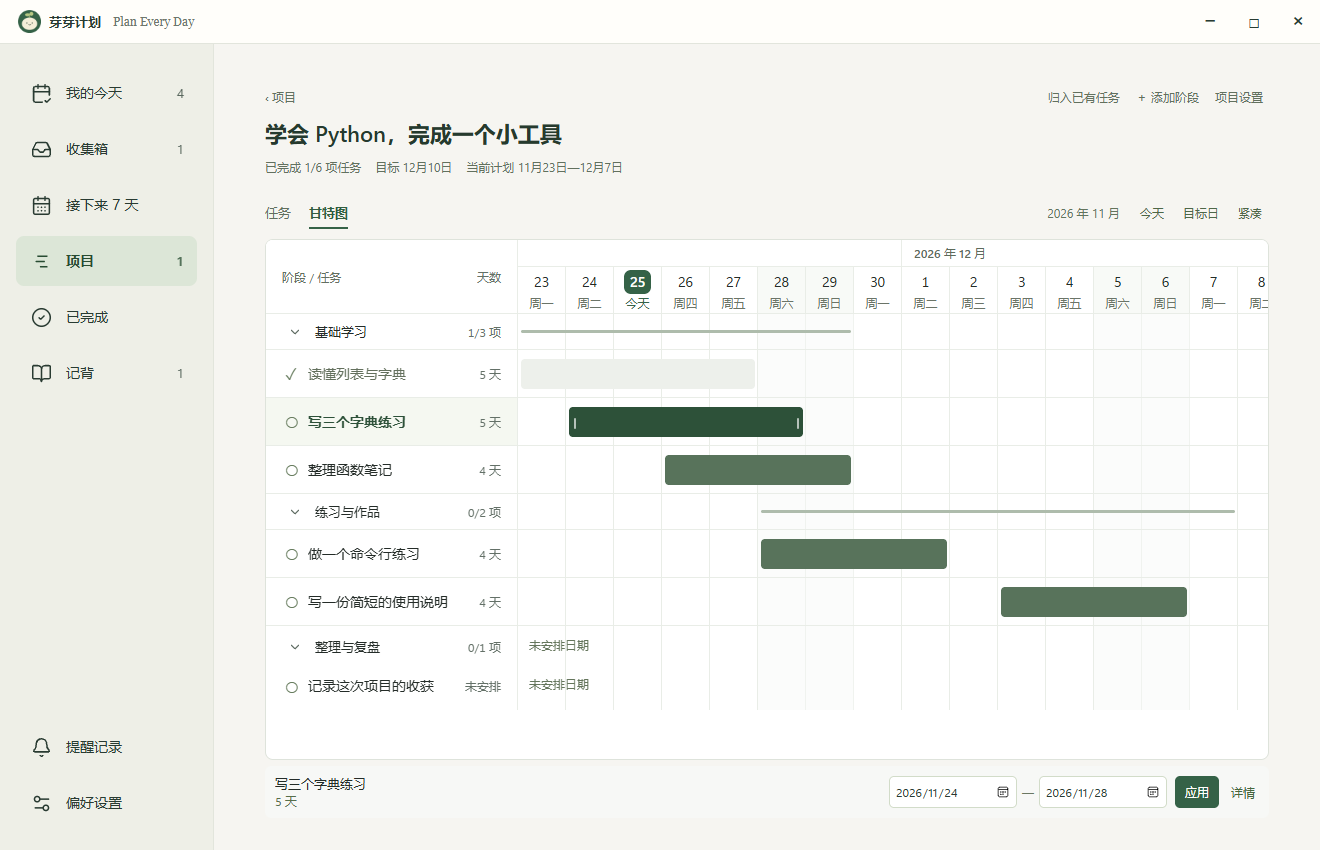
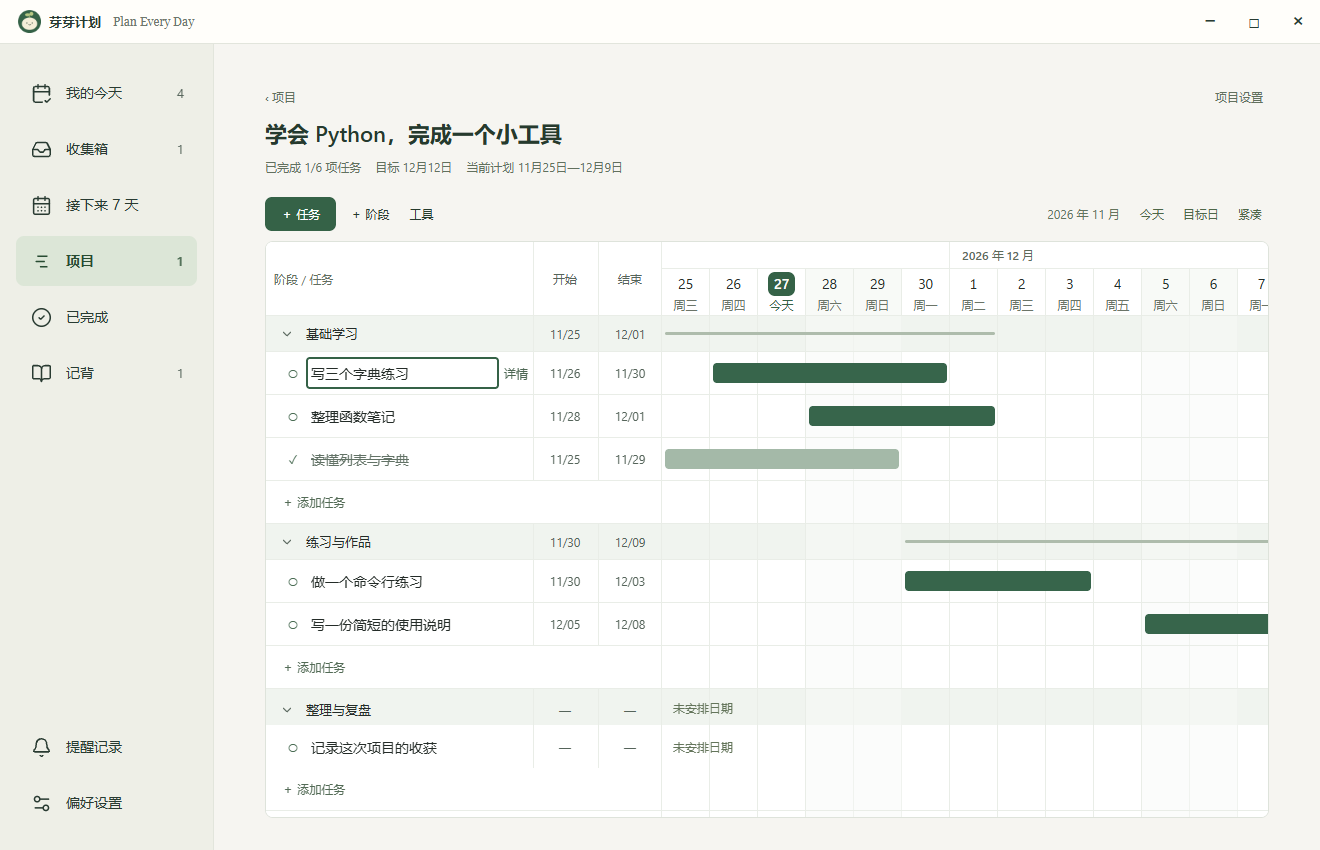
feat: merge project tasks and Gantt into an editable schedule

diff --git a/src/ui/projects.js b/src/ui/projects.js
@@ -42,17 +42,76 @@
   const group=(name,title,items)=>items.length?`<section class="project-list-group"><button class="project-group-toggle" data-project-group="${name}" aria-expanded="${name==='active'||model.groups[name]||!!q}"><span aria-hidden="true">${name==='active'||model.groups[name]||q?'⌄':'›'}</span>${title}<small>${items.length}</small></button>${name==='active'||model.groups[name]||q?items.map(row).join(''):''}</section>`:'';
   return `<div class="project-list-toolbar"><label class="project-search"><span class="sr-only">搜索项目</span><input id="project-search" type="search" placeholder="搜索项目" value="${esc(model.query)}"></label><button class="primary-button" data-project-new>＋ 新建项目</button></div><div class="project-scroll" tabindex="-1">${group('active','进行中',list.filter(p=>!p.archivedAt&&p.status!=='completed'))}${group('completed','已完成',list.filter(p=>!p.archivedAt&&p.status==='completed'))}${group('archived','已归档',list.filter(p=>p.archivedAt))}${!list.length?`<div class="project-empty"><h2>${q?'没有找到匹配的项目':'还没有项目'}</h2><p>${q?'试试其他关键词，或查看全部项目。':'新建项目后，可以直接记录任务，再分阶段安排日期。'}</p><button class="secondary-button" ${q?'data-project-clear-search':'data-project-new'}>${q?'清除搜索':'新建项目'}</button></div>`:''}</div>`;
  }
- function taskGroup(item,list){
-  const s=session(),id=item?.id||'',key=id||'unassigned',all=list.filter(t=>(t.stageId||'')===id),visible=shownTasks(all),collapsed=!!s.collapsed?.[key]&&!filtered();
-  if(filtered()&&!visible.length)return '';
-  return `<section class="project-stage" data-project-stage="${esc(id)}"><div class="project-stage-head"><button class="project-stage-toggle" data-stage-toggle="${esc(key)}" aria-expanded="${!collapsed}"><span aria-hidden="true">${collapsed?'›':'⌄'}</span><span class="project-stage-name">${esc(item?.title||'未分阶段')}</span><small>${all.length&&all.every(t=>t.status==='done')?'阶段任务已完成':progress(all)}</small></button>${item?`<button class="project-stage-date" data-stage-schedule="${esc(id)}" aria-label="调整 ${esc(item.title)} 的日期">${dateRange(item.startDate,item.endDate)}</button><button class="project-stage-edit" data-stage-edit="${esc(id)}" aria-label="编辑阶段 ${esc(item.title)}" title="编辑阶段">⋯</button>`:''}</div>${!collapsed?`${item?.outcome?`<p class="project-stage-outcome">${esc(item.outcome)}</p>`:''}<div class="project-stage-tasks">${visible.length?visible.map(t=>`<div class="project-task-wrap ${s.multi?'is-selecting':''}">${s.multi?`<label class="project-select"><input type="checkbox" data-project-select="${esc(t.id)}" aria-label="选择 ${esc(t.title)}" ${model.selection.includes(t.id)?'checked':''}></label>`:''}${context.taskRow(t)}${outsideStage(t,item)?`<p class="project-outside">安排日期在阶段范围外 <button data-detail="${esc(t.id)}">调整任务</button><button data-stage-schedule="${esc(id)}">调整阶段</button></p>`:''}</div>`).join(''):`<p class="project-group-empty">${filtered()?'此阶段没有匹配的任务':'尚无任务'}</p>`}</div><button class="project-inline-add" data-stage-add-task="${esc(id)}">＋ 添加${item?'阶段':'项目'}任务</button>`:''}</section>`;
+ function startEntry(kind,stageId=''){
+  const s=session();s.quickByStage||={};
+  if(s.entry==='task')s.quickByStage[s.stageId||'']=s.quick;
+  s.entry=kind;s.stageId=stageId||'';
+  if(kind==='task')s.quick=s.quickByStage[s.stageId]||'';
+  if(s.gantt?.collapsed)s.gantt.collapsed=s.gantt.collapsed.filter(id=>id!==s.stageId);
+  draw();const field=context.container.querySelector('.sheet-entry');field?.scrollIntoView({block:'nearest',inline:'nearest'});field?.focus({preventScroll:true});
  }
+ function sheetControls(){
+  const s=session(), projectId=model.id;
+  s.titles||={};
+  if(s.quick&&!s.entry)s.entry='task';
+  function operation(fn){return act(fn);}
+  function name(item,kind){
+   const field=document.createElement('input');field.type='text';field.id='sheet-name-'+item.id;
+   field.className='sheet-name '+(kind==='task'?'gantt-task-name':'gantt-stage-name');field.maxLength=200;
+   field.setAttribute('aria-label',(kind==='stage'?'阶段名称':'任务名称')+' · '+item.title);
+   field.value=s.titles[item.id]?.value??item.title;field.title=item.title;
+   field.oninput=()=>{s.titles[item.id]={base:s.titles[item.id]?.base??item.title,value:field.value};persist();};
+   const save=()=>{const draft=s.titles[item.id];if(!draft||busy)return;
+    void operation(async()=>{
+     const title=draft.value.trim();if(!title)throw Error('名称不能为空');
+     if(title!==item.title){
+      if(draft.base!==item.title)throw Error('名称已在其他位置更改，请按 Esc 恢复后再编辑。');
+      await context.api(kind==='stage'?'updateStage':'update',{id:item.id,patch:{title}});
+     }
+     if(s.titles[item.id]===draft)delete s.titles[item.id];await refresh();
+    });
+   };
+   field.onkeydown=e=>{if(e.isComposing||e.keyCode===229)return;
+    if(e.key==='Enter'){e.preventDefault();save();}
+    if(e.key==='Escape'){e.stopPropagation();delete s.titles[item.id];field.value=item.title;persist();field.blur();}
+   };
+   field.onchange=()=>{if(field.isConnected&&!drawing)save();};
+   return field;
+  }
+  function entry(kind,stageId){
+   const active=(s.entry||'')===kind&&(kind==='stage'||s.stageId===(stageId||''));
+   if(!active){
+    const b=document.createElement('button');b.className='sheet-add';b.dataset.sheetAdd=stageId||kind;b.textContent=kind==='stage'?'＋ 添加阶段':'＋ 添加任务';b.onclick=()=>startEntry(kind,stageId);return b;
+   }
+   const field=document.createElement('input');field.className='sheet-entry';field.maxLength=200;
+   field.id=kind==='stage'?'sheet-new-stage':'project-task-title';
+   field.placeholder=kind==='stage'?'输入阶段名称':'输入任务名称';field.setAttribute('aria-label',field.placeholder);
+   field.value=kind==='stage'?(s.phaseTitle||''):(s.quick||'');
+   field.oninput=()=>{if(kind==='stage')s.phaseTitle=field.value;else s.quick=field.value;persist();};
+   field.onkeydown=e=>{
+    if(e.isComposing||e.keyCode===229)return;
+    if(e.key==='Escape'){e.stopPropagation();s.entry=null;if(kind==='stage')s.phaseTitle='';else s.quick='';draw();return;}
+    if(e.key!=='Enter')return;e.preventDefault();
+    if(kind==='task'){void operation(()=>addTask());return;}
+    void operation(async()=>{const title=field.value.trim();if(!title)throw Error('请填写阶段名称');
+     const day=today(),created=await context.api('addStage',{projectId,title,startDate:day,endDate:day});
+     s.phaseTitle='';s.entry='task';s.quick='';s.stageId=created.id||created;await refresh();
+     if(model.id===projectId)focus('project-task-title');
+    });
+   };return field;
+  }
+  return {name,entry,multi:s.multi,selection:model.selection,
+   needUngrouped:!s.stageId&&s.entry==='task',stageDetails:id=>openEditor('stage',id),
+   selectGroup:id=>{if(!s.entry){s.stageId=id||'';persist();}}};
+ }
+ let drawing=false;
  function renderProject(p){
   const list=projectTasks(),phases=projectStages(),s=session(),bounds=range(list,phases),canComplete=list.length>0&&list.every(t=>t.status==='done');
-  const projectActions='<button data-project-assign>归入已有任务</button><button data-stage-new>＋ 添加阶段</button>';
+  const showTools=s.tools||filtered()||s.multi;
   model.selection=model.selection.filter(id=>list.some(t=>t.id===id));
   if(s.stageId&&!phases.some(x=>x.id===s.stageId))s.stageId='';
-  return `<header class="project-header"><div class="project-breadcrumb"><button data-project-back>‹ 项目</button><span class="project-header-actions">${s.tab==='gantt'?projectActions:''}<button data-project-edit="${esc(p.id)}">项目设置</button></span></div><h2>${esc(p.title)}</h2><div class="project-summary"><span>${progress(list)}</span>${p.status==='completed'?'<span class="project-status">项目已完成</span>':''}${p.archivedAt?'<span class="project-status">已归档</span>':''}${p.targetDate?`<span>目标 ${dateText(p.targetDate)}</span>`:''}${bounds?`<span class="project-plan-range">当前计划 ${dateRange(bounds.start,bounds.end)}</span>`:''}</div>${p.outcome?`<details class="project-outcome" ${s.outcomeOpen?'open':''}><summary>成果说明</summary><p>${esc(p.outcome)}</p></details>`:''}${bounds&&p.targetDate&&bounds.end>p.targetDate?'<p class="project-range-note">当前安排晚于目标日</p>':''}${p.status!=='completed'&&canComplete?`<button class="project-complete" data-project-complete="${esc(p.id)}">全部任务已完成 · 完成项目</button>`:''}</header><div class="project-viewbar"><div class="project-tabs" role="tablist" aria-label="项目视图"><button role="tab" data-project-tab="tasks" aria-selected="${s.tab!=='gantt'}">任务</button><button role="tab" data-project-tab="gantt" aria-selected="${s.tab==='gantt'}">甘特图</button></div>${s.tab==='gantt'?'<div class="project-gantt-controls"></div>':`<div class="project-view-actions">${projectActions}</div>`}</div>${s.tab==='gantt'?'<div class="project-gantt-host"></div>':`<div class="project-task-tools"><form id="project-quick-form" class="project-quick-form"><label class="sr-only" for="project-task-title">新任务标题</label><input id="project-task-title" placeholder="记一件项目要做的事" autocomplete="off" value="${esc(s.quick||'')}" required><button class="primary-button" type="submit" data-project-add-task>添加</button></form><div class="project-add-meta"><label>添加到 <select id="project-new-stage">${stageOptions(s.stageId)}</select></label><span class="project-add-meta-actions"><span>默认未安排日期</span><button type="button" data-project-multi aria-pressed="${!!s.multi}">${s.multi?'结束多选':'多选'}</button></span></div><div class="project-task-filters"><label class="project-search"><span class="sr-only">搜索项目任务</span><input id="project-task-search" type="search" placeholder="搜索任务" value="${esc(s.query||'')}"></label><label class="sr-only" for="project-status-filter">任务状态</label><select id="project-status-filter"><option value="all">全部状态</option><option value="todo" ${s.status==='todo'?'selected':''}>待办</option><option value="done" ${s.status==='done'?'selected':''}>已完成</option></select><label class="sr-only" for="project-priority-filter">优先级</label><select id="project-priority-filter"><option value="all">全部优先级</option>${[['normal','普通'],['important','重要'],['urgent','紧急']].map(([k,label])=>`<option value="${k}" ${s.priority===k?'selected':''}>${label}</option>`).join('')}</select></div><p class="project-error" role="alert"></p>${model.selection.length?`<div class="project-selection-bar"><span>已选择 ${model.selection.length} 项</span><button data-project-move>归入阶段</button><button data-project-detach>移出项目</button><button data-project-selection-clear>取消选择</button></div>`:''}${filtered()?`<p class="project-filter-note">匹配 ${shownTasks(list).length} 项 · 项目共 ${list.length} 项 <button data-project-filter-clear>清除筛选</button></p>`:''}</div><div class="project-scroll" tabindex="-1">${phases.map(item=>taskGroup(item,list)).join('')}${taskGroup(null,list)}${filtered()&&!shownTasks(list).length?'<div class="project-empty"><p>没有匹配的任务</p><button data-project-filter-clear>清除筛选</button></div>':''}</div>`}`;
+  return `<header class="project-header"><div class="project-breadcrumb"><button data-project-back>‹ 项目</button><span class="project-header-actions"><button data-project-edit="${esc(p.id)}">项目设置</button></span></div><h2>${esc(p.title)}</h2><div class="project-summary"><span>${progress(list)}</span>${p.status==='completed'?'<span class="project-status">项目已完成</span>':''}${p.archivedAt?'<span class="project-status">已归档</span>':''}${p.targetDate?`<span>目标 ${dateText(p.targetDate)}</span>`:''}${bounds?`<span class="project-plan-range">当前计划 ${dateRange(bounds.start,bounds.end)}</span>`:''}</div>${p.outcome?`<details class="project-outcome" ${s.outcomeOpen?'open':''}><summary>成果说明</summary><p>${esc(p.outcome)}</p></details>`:''}${bounds&&p.targetDate&&bounds.end>p.targetDate?'<p class="project-range-note">当前安排晚于目标日</p>':''}${p.status!=='completed'&&canComplete?`<button class="project-complete" data-project-complete="${esc(p.id)}">全部任务已完成 · 完成项目</button>`:''}</header><div class="project-viewbar"><button class="primary-button sheet-new-task" data-sheet-new>＋ 任务</button><button data-stage-new>＋ 阶段</button><button data-sheet-tools aria-expanded="${!!showTools}">工具</button><div class="project-gantt-controls"></div></div>
+   ${showTools?`<div class="project-task-tools"><div class="sheet-tools"><button data-project-assign>归入已有任务</button><button data-project-multi aria-pressed="${!!s.multi}">${s.multi?"结束多选":"多选"}</button></div><div class="project-task-filters"><label class="project-search"><span class="sr-only">搜索项目任务</span><input id="project-task-search" type="search" placeholder="搜索任务" value="${esc(s.query||'')}"></label><label class="sr-only" for="project-status-filter">任务状态</label><select id="project-status-filter"><option value="all">全部状态</option><option value="todo" ${s.status==='todo'?'selected':''}>待办</option><option value="done" ${s.status==='done'?'selected':''}>已完成</option></select><label class="sr-only" for="project-priority-filter">优先级</label><select id="project-priority-filter"><option value="all">全部优先级</option>${[['normal','普通'],['important','重要'],['urgent','紧急']].map(([k,label])=>`<option value="${k}" ${s.priority===k?'selected':''}>${label}</option>`).join('')}</select></div><p class="project-error" role="alert"></p>${model.selection.length?`<div class="project-selection-bar"><span>已选择 ${model.selection.length} 项</span><button data-project-move>归入阶段</button><button data-project-detach>移出项目</button><button data-project-selection-clear>取消选择</button></div>`:''}${filtered()?`<p class="project-filter-note">匹配 ${shownTasks(list).length} 项 · 项目共 ${list.length} 项 <button data-project-filter-clear>清除筛选</button></p>`:''}</div>`:''}<p class="sheet-error" role="alert"></p><div class="project-gantt-host"></div>`;
  }
  function draft(kind,id){const key=`${kind}:${id||'new'}`;if(!model.drafts[key]){const item=kind==='project'?project(id):stage(id);model.drafts[key]={title:item?.title||'',outcome:item?.outcome||'',targetDate:item?.targetDate||'',startDate:item?.startDate||'',endDate:item?.endDate||''};}return model.drafts[key];}
  function dialogHead(title){return `<div class="project-dialog-head"><h2 id="project-dialog-title">${esc(title)}</h2><button type="button" data-project-dialog-close aria-label="关闭（保留草稿）">×</button></div>`;}
@@ -81,12 +140,13 @@
   const container=context.container,active=document.activeElement,focused=container.contains(active),focusId=focused?active.id:'',focusAttribute=focused?['data-project-select','data-project-assign-select','data-stage-toggle','data-project-tab','data-project-group'].find(name=>active.hasAttribute(name)):null,position=focusId&&typeof active.selectionStart==='number'?[active.selectionStart,active.selectionEnd]:null;
   const oldDialog=container.querySelector('#project-dialog'),dialogScroll=oldDialog?.scrollTop||0,assignScroll=container.querySelector('.project-assign-list')?.scrollTop||0,keepDialogScroll=oldDialog?.dataset.kind===model.dialog?.kind;
   if(model.id&&!project()){model.id=null;model.dialog=null;model.selection=[];}
-  container.classList.add('project-view');container.dataset.projectMode=model.id?'project':'list';container.dataset.projectId=model.id||'';container.dataset.projectTab=model.id?session().tab:'tasks';
-  container.innerHTML=(model.id?renderProject(project()):renderList())+renderDialog();
+  container.classList.add('project-view');container.dataset.projectMode=model.id?'project':'list';container.dataset.projectId=model.id||'';container.dataset.projectTab=model.id?'gantt':'';
+  drawing=true;
+  try{container.innerHTML=(model.id?renderProject(project()):renderList())+renderDialog();}finally{drawing=false;}
   const scroller=container.querySelector('.project-scroll');if(scroller)scroller.scrollTop=model.id?(session().scroll||0):model.listScroll;
-  if(model.id&&session().tab==='gantt'){
+  if(model.id){
    const gantt=window.ProjectGantt,host=container.querySelector('.project-gantt-host');
-   if(gantt)cleanupGantt=gantt.render({container:host,toolbarContainer:container.querySelector('.project-gantt-controls'),project:project(),stages:projectStages(),tasks:projectTasks(),session:session().gantt||(session().gantt={}),onTask:id=>context.openTask(typeof id==='string'?id:id.id),onStage:id=>openEditor('stage',typeof id==='string'?id:id.id),onSchedule:saveStageRange,onTaskSchedule:saveTaskRange,onSessionChange:persist})||(()=>{});
+   if(gantt)cleanupGantt=gantt.render({container:host,toolbarContainer:container.querySelector('.project-gantt-controls'),project:project(),stages:projectStages(),tasks:shownTasks(projectTasks()),sheet:sheetControls(),session:session().gantt||(session().gantt={}),onTask:id=>context.openTask(typeof id==='string'?id:id.id),onStage:id=>openEditor('stage',typeof id==='string'?id:id.id),onSchedule:saveStageRange,onTaskSchedule:saveTaskRange,onSessionChange:persist})||(()=>{});
    else host.innerHTML='<p class="project-help">甘特图暂时不可用，可通过阶段日期继续安排。</p>';
   }
   const dialog=container.querySelector('#project-dialog');if(dialog){dialog.showModal();dialog.addEventListener('cancel',e=>{e.preventDefault();if(!busy)closeDialog();},{signal:listeners?.signal});}
@@ -97,13 +157,13 @@
  function openEditor(kind,id=null){model.dialog={kind,id};draft(kind,id);draw();focus('project-title');}
  function closeDialog(){model.dialog=null;draw();}
  function confirmAction(title,message,action,label='确认',danger=false){model.dialog={kind:'confirm',title,message,action,label,danger,returnTo:model.dialog};draw();}
- function report(error){const message=error?.message||String(error);const target=context.container.querySelector('.project-dialog-error')||context.container.querySelector('.project-error');if(target)target.textContent=message;else context.toast(message);}
+ function report(error){const message=error?.message||String(error);const target=context.container.querySelector('.project-dialog-error')||context.container.querySelector('.sheet-error');if(target)target.textContent=message;else context.toast(message);}
  async function act(fn){if(busy)return;busy=true;context.container.setAttribute('aria-busy','true');context.container.querySelectorAll('[data-project-dialog-save],[data-project-add-task],[data-project-confirm]').forEach(x=>x.disabled=true);try{await fn();}catch(error){report(error);}finally{busy=false;context.container.removeAttribute('aria-busy');context.container.querySelectorAll('[data-project-dialog-save],[data-project-add-task],[data-project-confirm]').forEach(x=>x.disabled=false);}}
  async function refresh(){persist();await context.refresh();}
  async function addTask(reopen=false){
   const p=project(),s=session(),title=(s.quick||'').trim();if(!title)throw Error('先写下任务标题');if([...title].length>200)throw Error('任务标题最多 200 字');
   if(p.status==='completed'&&!reopen){confirmAction('重新打开项目并继续','添加待办会将这个已完成的项目恢复为进行中。取消后项目和任务都保持不变。',{kind:'addTask'},'重新打开并添加');return;}
-  const saved=s.quick;await context.api('add',{title,plannedDate:null,projectId:p.id,stageId:s.stageId||null,...(reopen?{reopenProject:true}:{})});if(s.quick===saved)s.quick='';model.dialog=null;await refresh();focus('project-task-title');
+  const saved=s.quick;await context.api('add',{title,plannedDate:today(),projectId:p.id,stageId:s.stageId||null,...(reopen?{reopenProject:true}:{})});if(s.quick===saved)s.quick='';model.dialog=null;await refresh();if(model.id===p.id)focus('project-task-title');
  }
  async function saveEditor(){
   const d=model.dialog,v=draft(d.kind,d.id),title=v.title.trim();if(!title||[...title].length>200)throw Error('名称需要 1–200 个字符');
@@ -172,9 +232,10 @@
   else if('projectEdit'in data)openEditor('project',data.projectEdit);
   else if('projectGroup'in data){model.groups[data.projectGroup]=!model.groups[data.projectGroup];draw();}
   else if('projectClearSearch'in data){model.query='';draw();focus('project-search');}
-  else if('projectTab'in data){session().tab=data.projectTab;draw();}
+  else if('sheetNew'in data)startEntry('task',session().stageId);
+  else if('sheetTools'in data){session().tools=!session().tools;draw();}
   else if('projectEnlarge'in data)void act(()=>context.api('maximize'));
-  else if('stageNew'in data)openEditor('stage');
+  else if('stageNew'in data)startEntry('stage');
   else if('stageEdit'in data)openEditor('stage',data.stageEdit);
   else if('stageToggle'in data){const s=session();s.collapsed||(s.collapsed={});s.collapsed[data.stageToggle]=!s.collapsed[data.stageToggle];draw();}
   else if('stageAddTask'in data){session().stageId=data.stageAddTask;draw();focus('project-task-title');}
@@ -221,16 +282,26 @@
  function attach(){
   listeners?.abort();listeners=new AbortController();const el=context.container,options={signal:listeners.signal};
   el.addEventListener('click',click,options);el.addEventListener('input',input,options);el.addEventListener('change',change,options);el.addEventListener('submit',submit,options);
-  el.addEventListener('keydown',e=>{if(e.key==='Enter'&&(e.isComposing||e.keyCode===229))e.preventDefault();},options);
+  el.addEventListener('compositionstart',e=>{e.target.dataset.composing='true';},options);
+  el.addEventListener('compositionend',e=>{delete e.target.dataset.composing;},options);
   el.addEventListener('toggle',e=>{if(e.target.classList?.contains('project-outcome')){session().outcomeOpen=e.target.open;persist();}},{...options,capture:true});
   el.addEventListener('scroll',captureSession,{...options,capture:true});
+  el.addEventListener('click',event=>{
+   const opener=event.target.closest('.sheet-detail[data-detail]');
+   if(opener)session().returnTask=opener.dataset.detail;
+  },options);
+  document.addEventListener('click',event=>{
+   if(!model.id||!event.target.closest('#detail-close')||!session().returnTask)return;
+   const id=session().returnTask;delete session().returnTask;
+   queueMicrotask(()=>context.container.querySelector(`[data-detail="${CSS.escape(id)}"]`)?.focus({preventScroll:true}));
+  },options);
  }
  window.ProjectView={
-  render(options){if(context?.container!==options.container)dispose();context=options;attach();draw();},
+  render(options){if(context?.container!==options.container)dispose();context=options;attach();if(!context.container.querySelector(':focus[data-composing]'))draw();},
   dispose,captureSession,restoreSession,
   open(id){captureSession();model.id=id;model.selection=[];model.dialog=null;persist();},
   resetAfterRestore(){dispose();model=empty();persist();},
-  focusNew(){if(!context)return;if(model.id){session().tab='tasks';draw();focus('project-task-title');}else openEditor('project');},
-  focusSearch(){if(!context)return;if(model.id){session().tab='tasks';draw();focus('project-task-search');}else focus('project-search');}
+  focusNew(){if(!context)return;if(model.id){startEntry('task',session().stageId);}else openEditor('project');},
+  focusSearch(){if(!context)return;if(model.id){session().tools=true;draw();focus('project-task-search');}else focus('project-search');}
  };
 })();

diff --git a/src/ui/gantt.js b/src/ui/gantt.js
@@ -27,7 +27,7 @@
   const expected = task => ({ plannedDate: task.plannedDate ?? null,
     plannedEndDate: task.plannedEndDate || task.plannedDate || null, updatedAt: task.updatedAt });
 
-  function render({ container, toolbarContainer, project, stages = [], tasks = [], session = {}, onTask = () => {},
+  function render({ container, toolbarContainer, project, stages = [], tasks = [], session = {}, sheet, onTask = () => {},
     onStage = () => {}, onSchedule = async () => {}, onTaskSchedule = async () => {}, onSessionChange = () => {} }) {
     if (!container || !project) return () => {};
     const phases = stages.filter(s => s.projectId === project.id).slice().sort((a, b) => (a.order || 0) - (b.order || 0));
@@ -52,6 +52,7 @@
     let viewport, inspector, feedback, live, toolbar, currentStart, currentEnd, dayWidth;
     let drag = null, frame = 0, stopped = false, saving = false, suppressClick = false;
     const root = node('section', 'project-gantt'); root.setAttribute('aria-label', `${project.title}的每日甘特图`);
+    root.classList.toggle('editable-sheet',!!sheet);
     container.replaceChildren(root);
     const notify = () => onSessionChange();
     const saveScroll = () => {
@@ -273,6 +274,32 @@
       const row = node('div', `gantt-row gantt-${kind}-row`), name = node('div', 'gantt-name'), track = node('div', 'gantt-track');
       markers(track); row.append(name, track); return { row, name, track };
     }
+    function dateCells(name,item,kind){
+      const [a,b]=bounds(item,kind);
+      for(const edge of ['start','end']){
+        const value=edge==='start'?a:b, label=edge==='start'?'开始日期':'结束日期';
+        const cell=button(value===null?'—':date(value).slice(5).replace('-','/'),'sheet-date',null,item.title+' · '+label);
+        cell.title=value===null?label:date(value);
+        cell.onclick=()=>{
+          const input=node('input','sheet-date sheet-date-input');input.type='date';input.value=value===null?'':date(value);
+          input.setAttribute('aria-label',label);cell.replaceWith(input);input.focus();
+          input.onkeydown=e=>{if(e.key==='Escape'){e.preventDefault();input.replaceWith(cell);cell.focus();}};
+          input.onblur=()=>{if(input.isConnected)input.replaceWith(cell);};
+          input.onchange=()=>{
+            const picked=ordinal(input.value);
+            if(picked!==null&&edge==='end'&&a!==null&&picked<a){message('结束日不能早于开始日',true);return;}
+            const start=picked===null?null:date(edge==='start'?picked:(a??picked));
+            const end=picked===null?null:date(edge==='end'?picked:Math.max(b??picked,picked));
+            if(kind==='task')void commitTask(item,candidate(item,start,end));else void commitStage(item,start,end);
+          };
+          try{input.showPicker();}catch{}
+        };
+        name.append(cell);
+      }
+    }
+    function addRow(kind,stageId){
+      const r=row('entry');r.name.append(sheet.entry(kind,stageId));return r.row;
+    }
     function taskRow(task, phase) {
       const r = row('task'), [a, b] = bounds(task, 'task'); r.row.dataset.taskId = task.id;
       r.row.classList.toggle('is-done', task.status === 'done'); r.row.classList.toggle('is-selected', session.selectedTaskId === task.id);
@@ -282,6 +309,16 @@
       if (phase?.startDate && a !== null && (a < ordinal(phase.startDate) || b > ordinal(phase.endDate))) {
         r.row.classList.add('is-outlier');
         const note = node('span', 'gantt-outlier-note', '范围外'); note.title = '任务日期在阶段范围外，可以保留或调整'; r.name.append(note);
+      }
+      if(sheet){
+        const done=button(task.status==='done'?'✓':'○','sheet-tick',null,'切换完成状态 · '+task.title);
+        done.dataset.complete=task.id;done.setAttribute('aria-pressed',String(task.status==='done'));
+        const details=button('详情','sheet-detail',null,'打开任务详情 · '+task.title);details.dataset.detail=task.id;
+        r.name.replaceChildren(done,sheet.name(task,'task'),details);
+        if(sheet.multi){const check=node('input','sheet-check');check.type='checkbox';check.dataset.projectSelect=task.id;
+          check.checked=sheet.selection.includes(task.id);check.setAttribute('aria-label','选择 '+task.title);r.name.prepend(check);}
+        r.name.onfocusin=()=>sheet.selectGroup(task.stageId);
+        dateCells(r.name,task,'task');
       }
       rangeBar(r.track, task, 'task'); return r.row;
     }
@@ -297,11 +334,17 @@
       const count = list.length ? `${list.filter(t => t.status === 'done').length}/${list.length} 项` : '尚无任务';
       title.title = `${stage.title} · ${count}`; r.name.append(toggle, title, node('span', 'gantt-stage-count', count));
       rangeBar(r.track, stage, 'stage'); rows.append(r.row);
-      if (!isCollapsed) list.forEach(task => rows.append(taskRow(task, stage)));
+      if(sheet){
+        const details=button('⋯','sheet-detail',()=>sheet.stageDetails(stage.id),'编辑阶段详情 · '+stage.title);details.dataset.stageEdit=stage.id;
+        r.name.replaceChildren(toggle,sheet.name(stage,'stage'),details);r.name.onfocusin=()=>sheet.selectGroup(stage.id);
+        dateCells(r.name,stage,'stage');
+      }
+      if (!isCollapsed){list.forEach(task => rows.append(taskRow(task, stage)));if(sheet)rows.append(addRow('task',stage.id));}
     }
     function calendar(rows) {
       const header = node('div', 'gantt-row gantt-header'), name = node('div', 'gantt-name gantt-name-heading');
       name.append(node('span', '', '阶段 / 任务'), node('span', 'gantt-duration', '天数'));
+      if(sheet){name.lastElementChild.remove();name.append(node('span','sheet-date','开始'),node('span','sheet-date','结束'));}
       const dates = node('div', 'gantt-calendar'), months = node('div', 'gantt-months'), days = node('div', 'gantt-dates');
       let month = null;
       for (let day = currentStart; day <= currentEnd; day++) {
@@ -353,11 +396,13 @@
       viewport = node('div', 'gantt-viewport'); viewport.tabIndex = 0; viewport.setAttribute('role', 'region');
       viewport.setAttribute('aria-label', `每日甘特图，${date(currentStart)}至${date(currentEnd)}，可横向滚动`);
       const rows = node('div', 'gantt-rows'); calendar(rows); phases.forEach(stage => stageRows(stage, rows));
-      if (ungrouped.length) {
+      if (ungrouped.length||sheet?.needUngrouped||(!phases.length&&sheet)) {
         const section = row('section'); section.name.textContent = `未分阶段 · ${ungrouped.length} 项`; rows.append(section.row);
         ungrouped.forEach(task => rows.append(taskRow(task)));
+        if(sheet)rows.append(addRow('task',''));
       }
-      if (!phases.length && !entries.length) { const empty = row('empty'); empty.name.textContent = '尚无阶段或任务'; rows.append(empty.row); }
+      if(sheet)rows.append(addRow('stage',''));
+      else if (!phases.length && !entries.length) { const empty = row('empty'); empty.name.textContent = '尚无阶段或任务'; rows.append(empty.row); }
       viewport.append(rows); root.append(viewport);
       inspector = node('form', 'gantt-inspector'); inspector.setAttribute('aria-label', '所选任务日期'); root.append(inspector);
       feedback = node('p', 'gantt-feedback'); feedback.setAttribute('role', 'status'); feedback.hidden = true;

diff --git a/src/ui/gantt.css b/src/ui/gantt.css
@@ -120,3 +120,24 @@
   .gantt-feedback { max-height: 38px; overflow: auto; }
 }
 @media (prefers-reduced-motion: reduce) { .project-gantt * { scroll-behavior: auto !important; transition: none !important; } }
+.editable-sheet { --gantt-name-width: 396px; --gantt-row-height: 43px; --gantt-phase: #f0f4ef; }
+.editable-sheet .gantt-name { padding: 0 0 0 8px; gap: 2px; }
+.editable-sheet .gantt-name-heading>span:first-child { flex: 1; }
+.sheet-name,.sheet-entry { flex:1; min-width:0; width:0; border:1px solid transparent; border-radius:4px; background:transparent; color:inherit; padding:4px; height:32px; font:inherit; text-overflow:ellipsis; }
+.sheet-name:focus,.sheet-entry:focus { background:white; outline-offset:-2px !important; }
+.editable-sheet .is-done .sheet-name { text-decoration:line-through; color:#627266; }
+.editable-sheet .sheet-date { width:63px; flex:none; align-self:stretch; display:grid; place-items:center; border-left:1px solid var(--gantt-line); border-radius:0; padding:0; font:12px "Segoe UI",sans-serif; color:#55645a; }
+.editable-sheet .sheet-date-input { border:1px solid var(--gantt-moss); color:inherit; }
+.editable-sheet .gantt-task-row .gantt-name { padding-left:16px; }
+.sheet-tick,.sheet-detail { padding:0 3px; min-height:32px; flex:none; }
+.sheet-tick { color:#476a51; width:22px; }
+.sheet-detail { opacity:0; color:#4d6753; }
+.gantt-row:hover .sheet-detail,.gantt-row:focus-within .sheet-detail { opacity:1; }
+.editable-sheet .gantt-task-bar { top:11px; height:20px; background:#37654b; }
+.editable-sheet .gantt-task-bar.is-done { background:#a4b9a8; }
+.editable-sheet .sheet-add { min-height:32px; color:#536b56; padding:3px 8px; }
+.sheet-check { flex:none; width:14px; accent-color:#356247; }
+.sheet-error { color:#923f32; font-size:12px; margin:2px 0; }.sheet-error:empty {display:none}
+.sheet-tools {display:flex;gap:8px;align-items:center}.sheet-tools button,.project-viewbar>button{min-height:32px;white-space:nowrap}
+@media (max-width:900px){.editable-sheet {--gantt-name-width:180px}.editable-sheet .sheet-date{display:none}.editable-sheet .sheet-detail{opacity:1}.editable-sheet .gantt-task-row .gantt-name{padding-left:5px}}
+@media (max-width:540px){.editable-sheet{--gantt-name-width:150px}.project-viewbar .gantt-caption,.project-viewbar .gantt-density{display:none}.project-viewbar{gap:2px}.project-viewbar>button{padding:3px 5px}}

diff --git a/AGENTS.md b/AGENTS.md
@@ -10,6 +10,8 @@
 
 ### 当前实现事实与继续工作入口（2026-11-25，优先于下方历史描述）
 
+- **2026-11-27 · 0.6.4 项目排期表**。用户授权测试通过后直接提交并发布排期表，邮件提醒继续独立验收。项目内直接编辑阶段和任务，项目表新任务默认本地今天，旧的未排期任务保持未安排。保留日期撤销、任务卡片、筛选与批量归属；阶段拖动不移动任务或提醒。正式格式仍为 SQLite 3、备份 v6。
+
 - **0.6.3 用户撤销阶段联动需求**：阶段条身平移、两端拉伸和键盘改期均直接保存，不再打开改期预览/确认窗口；任务日期、重点和提醒完全独立，由用户自行拖动或编辑。手动阶段日期表单仅保留日期输入、清除与保存。旧 `previewStageSchedule` / `applyStageSchedule` IPC 和联动模型已移除，改为 `scheduleStageRange` 的预期状态检查与仅阶段撤销；扩展阶段范围入口同步接入。失败不伪装保存成功，撤销不覆盖后来的阶段日期编辑。**拖动时也不在色块上叠加临时日期范围文字**，仅保留隐藏的读屏反馈。此项覆盖下方所有“预览后联动平移任务”历史设计。数据格式仍为 SQLite 3 / 备份 v6，不操作屏幕或正式库，桌面更新由用户自行完成。
 - **0.6.2 甘特图细节**：用户明确要求阶段名称旁的箭头更美观、右侧色块不要重复任务文字。阶段展开控件改为居中细线 SVG，以 `aria-expanded` 控制方向，保留可访问名称和键盘操作；任务色块不再显示标题/完成符号，左侧保留名称与完成状态，悬停说明、拖动和两端调整、拖动时临时日期反馈保留。最终包 32 组页面检查（甘特 13、工作区 13、提示 6）与原生自测 15 项通过，README 示例图更新。延续已确认配色、布局和不操控屏幕原则。
 - **0.6.1 已公开发布**（源码提交 `5feeada`，tag `v0.6.1`）：105 项单元测试、最终包 19 组页面检查、原生自测 15 项通过；37 个源码文件匹配。更新三件附件核验后公开，匿名 latest 元数据、完整安装包 SHA-512 和 blockmap 均匹配。提示问题的复现范围与修复细节见下条，用户自行更新桌面版。
@@ -48,7 +50,7 @@
 - 用户已授权实现、测试、更新桌面安装版及公开 GitHub Release；这不是仅设计阶段。仓库为 https://github.com/yihongPeng/PlanEveryday。不要重复询问已获授权的常规修复与发布。
 - 正式安装目录固定 `D:/Programs/PlanEveryday`，正式数据库固定 `D:/PlanEverydayData/planner.sqlite`。任务、记背、图片、备份、下载缓存、安装解压临时文件均在 D 盘；不可回退 C 盘或因路径改变创建空库。Windows 自身管理的快捷方式、注册表、系统日志不在此承诺范围内。
 - `release/<版本>/PlanEveryday-win32-x64` 是构建/历史便携目录，不是日常桌面入口。桌面、开始菜单和开机自启应指向固定安装目录。`src/desktop-location.cjs` 统一选择已识别的安装位置；便携副本不得抢走安装版入口。
-- 当前公开版本为 **0.6.3**（阶段直接改期、移除任务联动与拖动日期浮层，提交 `06d583d`），包含 0.6.1/0.6.2 的提示与视觉修复。104 项单元、最终包 54 组页面及原生 15 项自测通过。三件更新附件已核验后公开；匿名 latest 元数据、完整安装包 SHA-512、blockmap 和 README 三图与本地一致。本轮没有替换本机安装版；本机更新由用户自行完成，不凭发布成功推断本机已升级。
+- 此前公开版本为 **0.6.3**（阶段直接改期、移除任务联动与拖动日期浮层，提交 `06d583d`），包含 0.6.1/0.6.2 的提示与视觉修复。104 项单元、最终包 54 组页面及原生 15 项自测通过。三件更新附件已核验后公开；匿名 latest 元数据、完整安装包 SHA-512、blockmap 和 README 三图与本地一致。本轮没有替换本机安装版；本机更新由用户自行完成，不凭发布成功推断本机已升级。
 - 历史真实 GitHub 0.5.2→0.5.3 已完成，固定目录启动且手动检查更新正常。升级前后任务、记背、提醒记录逐项摘要一致，桌面/开始菜单入口非空且目标正确；正常退出后用户叫停，**桌面重开尚未验证**。0.5.2 曾出现零字节快捷方式，原因仍未定位，不得声称已根治。0.5.3→0.5.4 本轮未进行真实升级测试，细节见 docs/ACCEPTANCE.md。
 - 下方 0.2/0.3/0.4 的“当前发布目录”均为历史记录。实际版本查 package.json、固定安装目录的 installed-by-nsis、正在运行的进程路径和 GitHub Release，不凭旧文档推断。
 - `ReadHelper/` 是用户的其他项目，当前未跟踪；不得修改、提交、打包或删除。提交使用明确文件列表，不使用 `git add .`。个人数据库、备份、截图、运行日志、测试数据和凭据不得进入公开仓库。

diff --git a/README.md b/README.md
@@ -4,7 +4,7 @@
 
 **下载使用：[最新 Windows 安装版](https://github.com/yihongPeng/PlanEveryday/releases/latest)** · [源码仓库](https://github.com/yihongPeng/PlanEveryday)
 
-下载并运行 `PlanEveryday-Setup-0.6.3.exe`，安装程序会创建桌面入口。当前版本需要 Windows 10/11 x64 和可写的 **D 盘**，数据与缓存固定在 `D:\PlanEverydayData`；无需登录。代码采用 [MIT 许可证](LICENSE)，欢迎下载使用和改进。
+下载并运行 `PlanEveryday-Setup-0.6.4.exe`，安装程序会创建桌面入口。当前版本需要 Windows 10/11 x64 和可写的 **D 盘**，数据与缓存固定在 `D:\PlanEverydayData`；无需登录。代码采用 [MIT 许可证](LICENSE)，欢迎下载使用和改进。
 
 ## 界面预览
 
@@ -60,9 +60,9 @@
 7. 点击桌宠、系统提醒或提醒入口会清除当前未读小点，记录仍保留；新提醒会重新点亮。
 8. Ctrl+N 聚焦新增，Ctrl+F 搜索。中文输入法选词不会提交任务。
 
-## 项目与甘特图（0.6.0）
+## 项目排期表（0.6.4）
 
-新建项目只需名称，可按阶段拆分。阶段和任务都支持开始、结束日；项目、今天、收集箱和七天安排使用同一条任务，不需要重复维护。项目内默认先看任务，也可切换经典每日网格甘特图：每天都标日期，左侧名称固定，任务条可整体拖动或拖动两端调整天数，也可以用日期框或方向键调整。
+新建项目只需名称，可按阶段拆分。阶段和任务都支持开始、结束日；项目、今天、收集箱和七天安排使用同一条任务，不需要重复维护。打开项目即可在左边新增阶段、连续录入任务或直接改名。新建任务默认今天，右边可逐日拖动或拉伸日期条。行内「详情」可编辑备注、提醒与优先级。搜索、筛选、多选和归入已有任务在「工具」中。
 
 多日任务在跨度内每天显示，完成一次后移出所有日期的待办；结束日之后才进入待重新安排。快捷“今天开始／明天开始”保留原天数，清除日期则回到收集箱。今日重点仍最多 3 项，提醒仍只有一个，不因跨天或改期重复。底部与侧栏使用同套本地 Lucide 线条图标，无联网请求；授权保存在 `src/ui/vendor/lucide-LICENSE` 和 `lucide-NOTICE`。
 

diff --git a/docs/ACCEPTANCE.md b/docs/ACCEPTANCE.md
@@ -1,5 +1,9 @@
 # 0.2.2 D 盘迁移与 Markdown 验收
 
+## 2026-11-27 · 0.6.4 可编辑项目排期表
+
+从公开 0.6.3 源码隔离构建。104 项单元测试、最终包 61 组无界面页面检查（项目工作区 15、每日甘特 13、项目集成 12、跨日任务 9、操作提示 6、记背目录 6）及桌宠 15 项原生自测通过。专项检查覆盖中文选词、连续录入、阶段和任务原位改名、写入失败留稿、跨窗口重建恢复、当天排期、起止日期与拖动拉伸、任务详情及返回焦点、三种窗口尺寸。37 个打包源码文件逐一匹配独立源码，邮件提醒不在正式安装包内。已验证本地安装包大小、SHA-512 和 blockmap。未进行本机真实安装升级或操作正式库。
+
 ## 2026-11-25 · 0.6.3 直接改期与无日期浮层
 
 用户明确取消拖动阶段后的预览确认和“同时平移阶段任务”，并要求去掉拖动时叠在任务色块上的临时日期范围。阶段条身平移、两端拉伸及键盘调整改为直接提交，手动日期表单只需保存一次；阶段和任务独立，任务日期、重点、提醒、完成状态不受影响。色块在拖动中仅改变位置与长度，隐藏的读屏提示保留。
